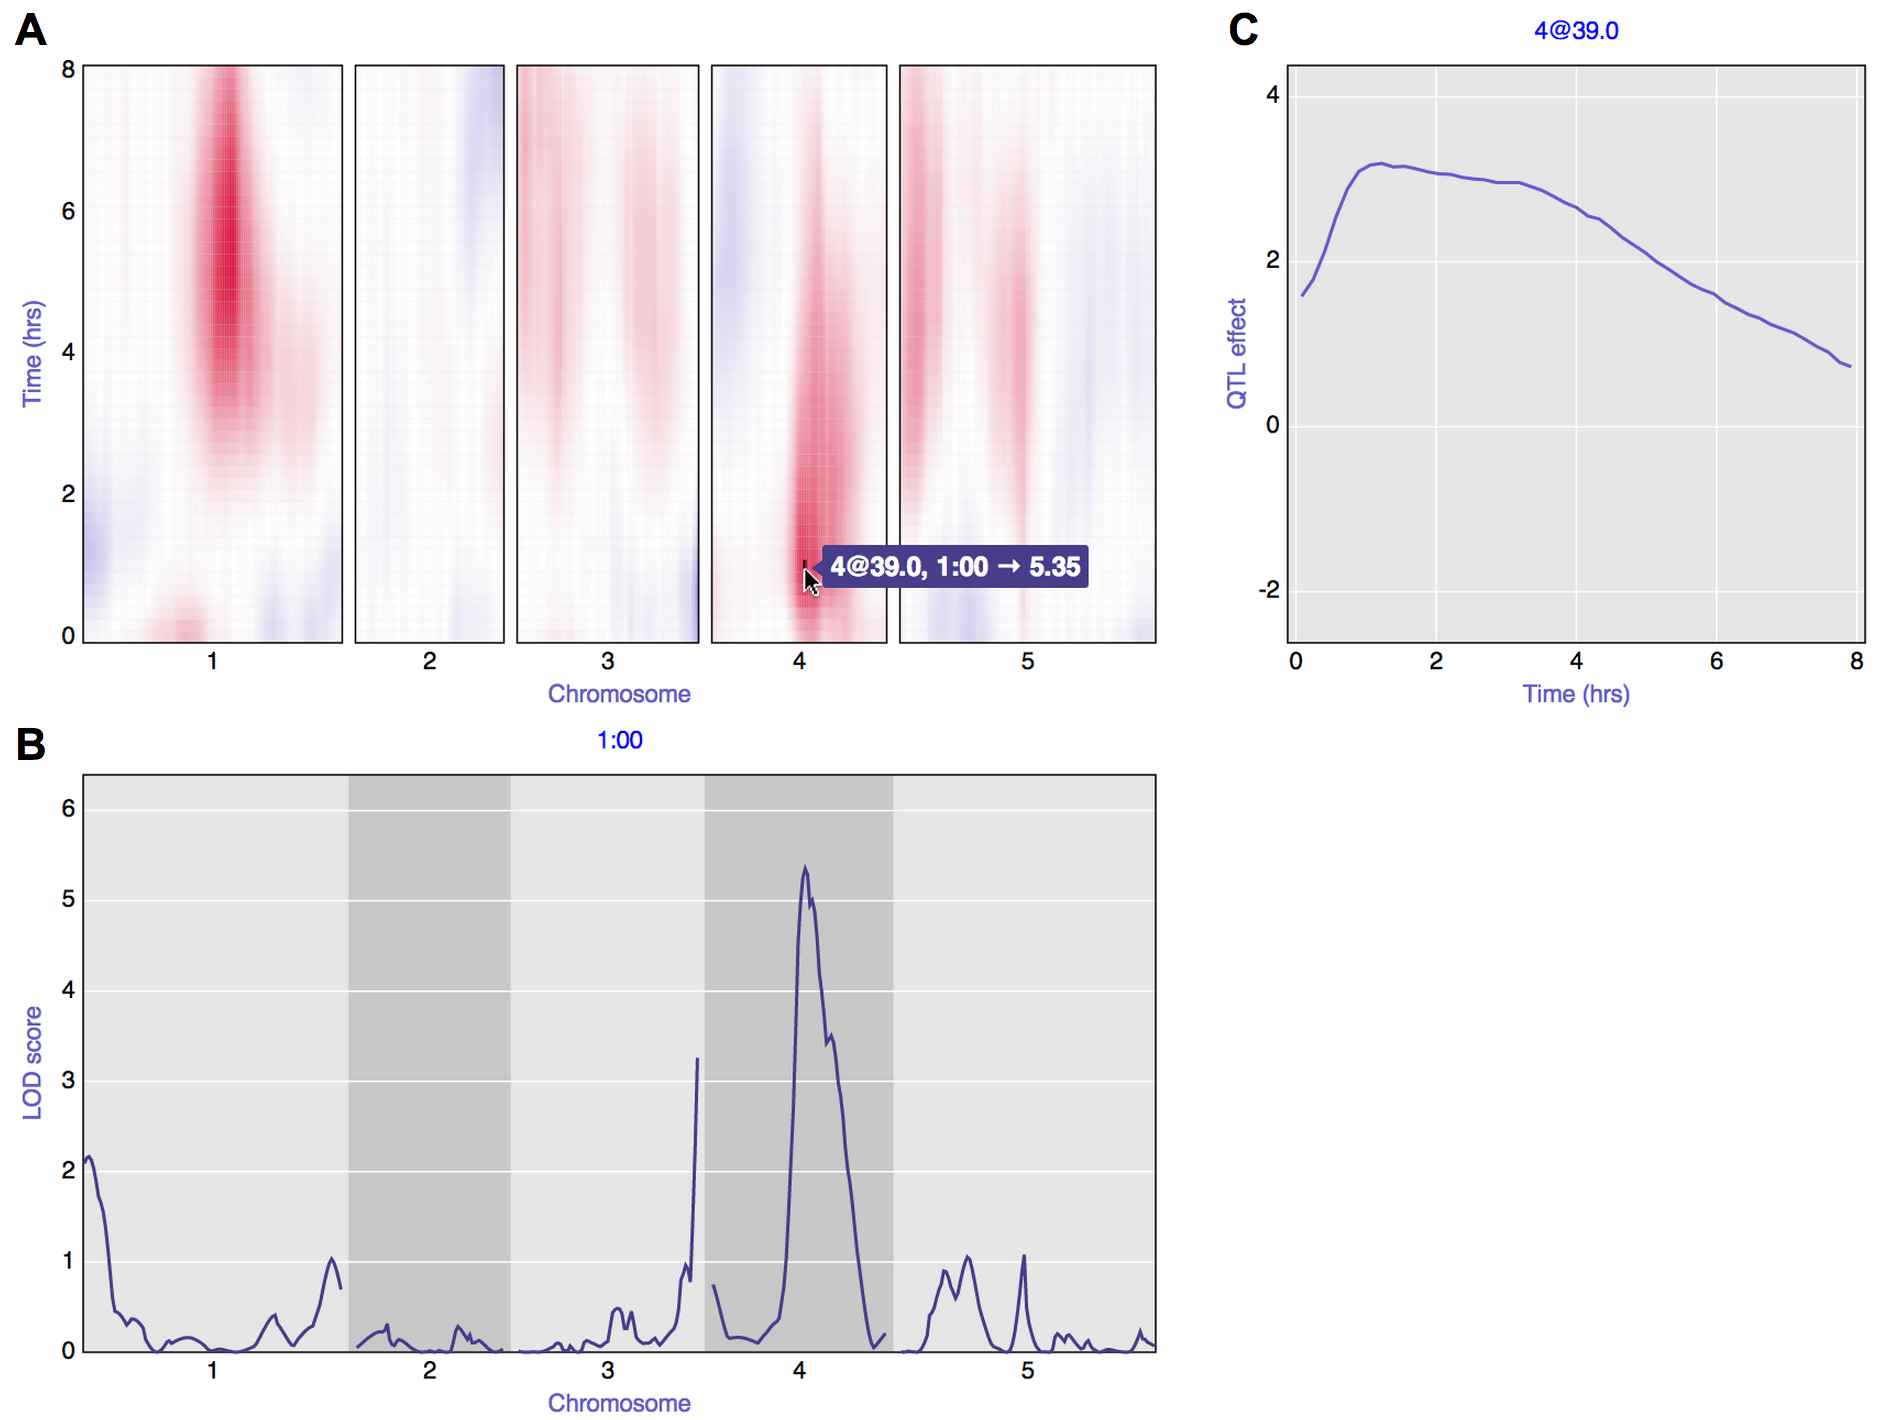
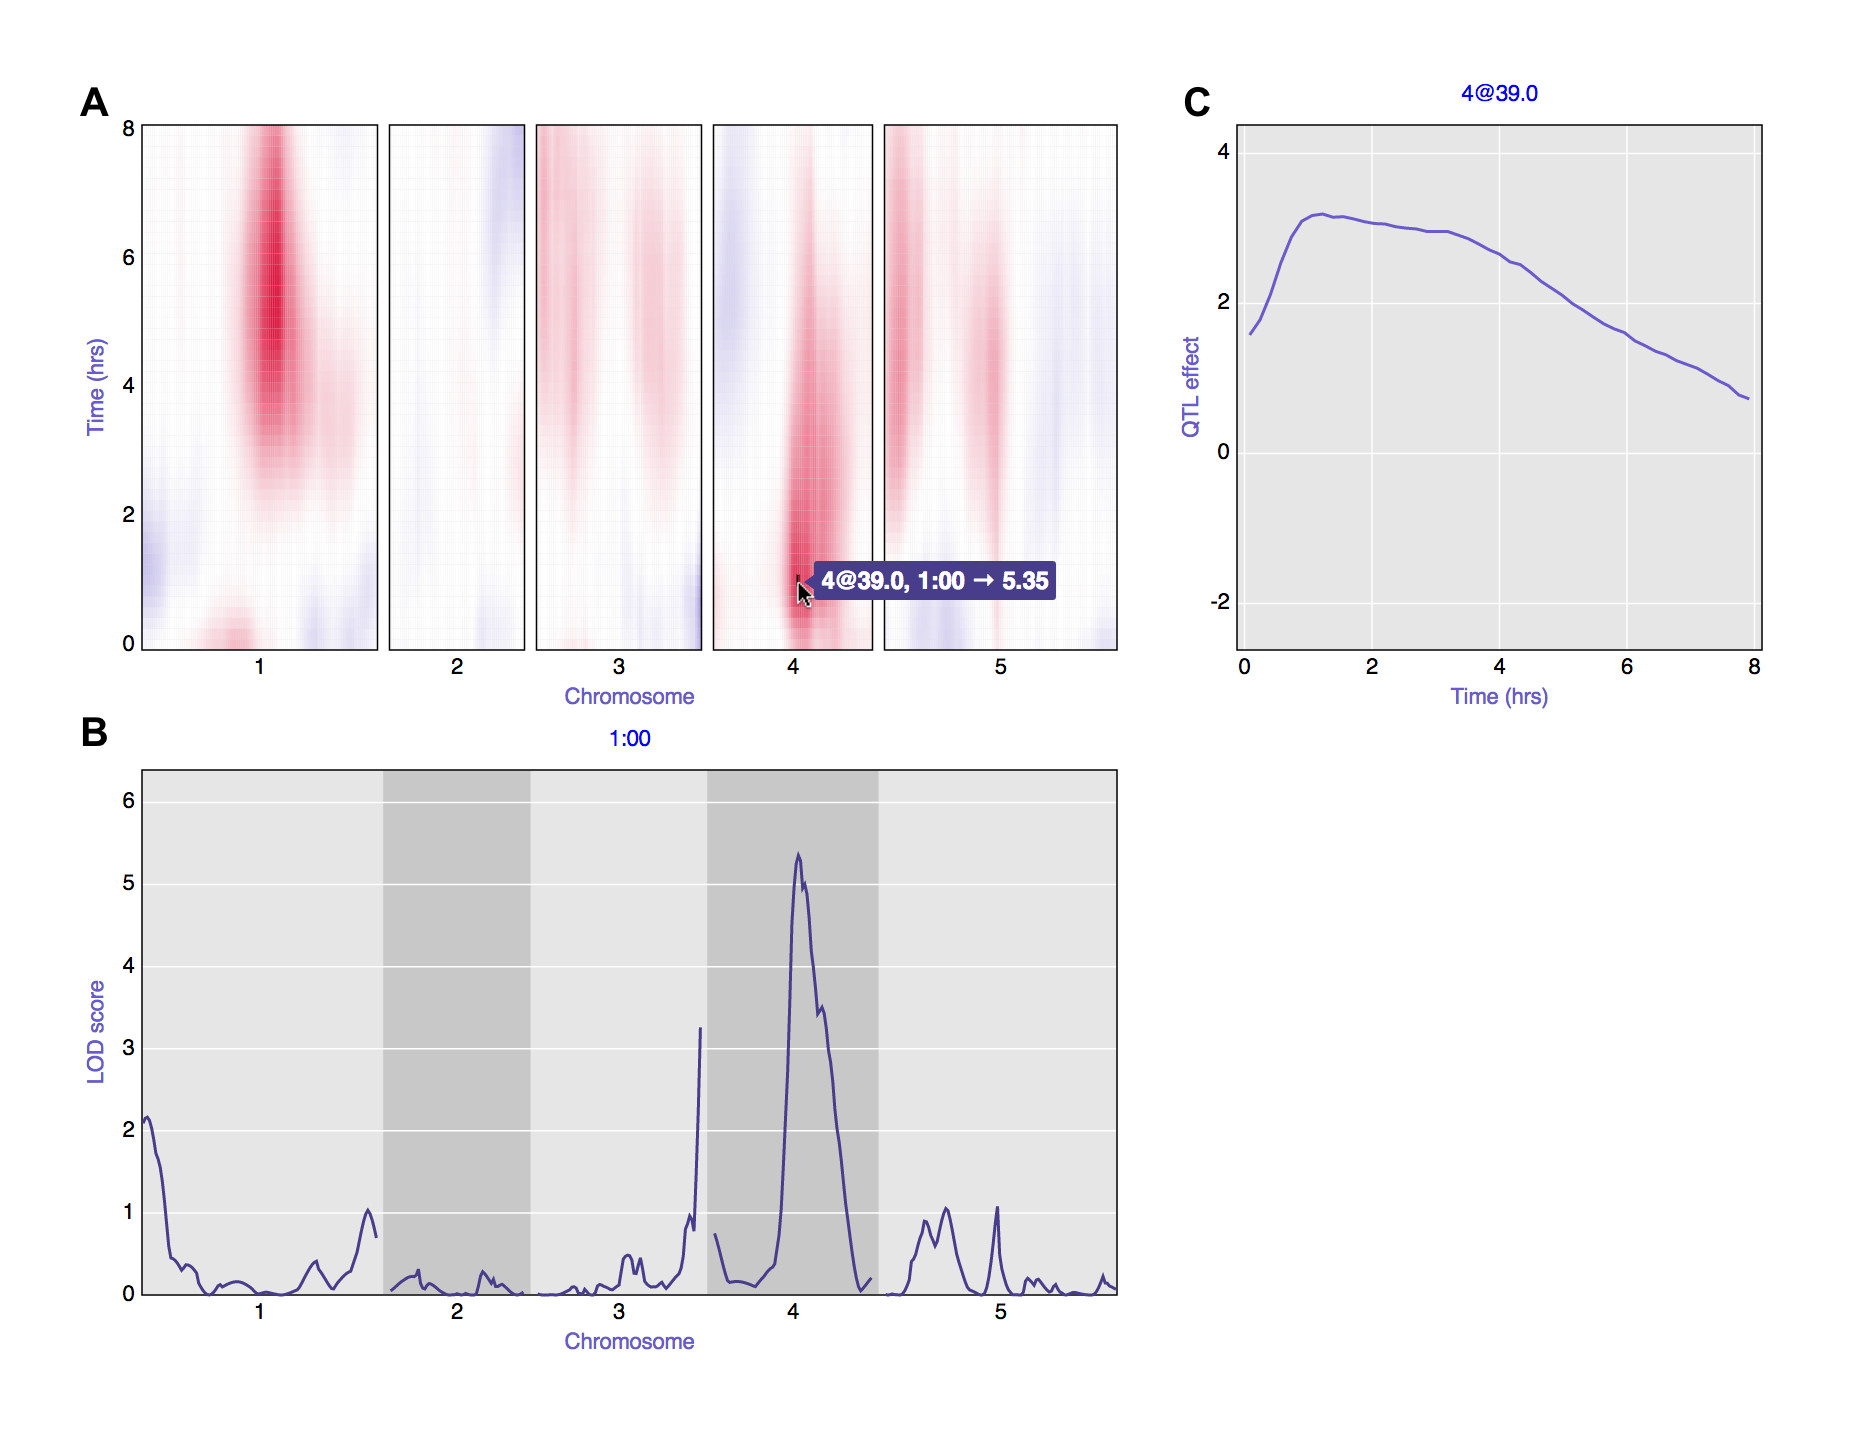
Use R pkg webshot to automate grabbing fig1.png (with overlayed pointer)

diff --git a/SubFigs/fig1.html b/SubFigs/fig1.html
@@ -11,45 +11,46 @@ body {
 
 p.A {
     position: fixed;
-    top: -10px;
-    left: 40px;
+    top: 40px;
+    left: 80px;
     font-size: 40px;
 }
 
 p.B {
     position: fixed;
-    top: 640px;
-    left: 40px;
+    top: 670px;
+    left: 80px;
     font-size: 40px;
 }
 
 p.C {
     position: fixed;
-    top: -10px;
-    left: 1143px;
+    top: 40px;
+    left: 1183px;
     font-size: 40px;
 }
 
 img.A {
     position: fixed;
-    top: 40px;
-    left: 40px;
+    top: 80px;
+    left: 80px;
 }
 
 img.pointer {
     position: fixed;
-    top:  539px;
-    left: 754px;
+    top:  579px;
+    left: 794px;
 }
 </style>
 
 <body>
 
+<div id="fig1">
 <img class="A" src="fig1_raw.png"/>
 <img height=50 class="pointer" src="pointer.png"/>
-
 <p class="A"><b>A</b></p>
 <p class="B"><b>B</b></p>
 <p class="C"><b>C</b></p>
+</div>
 
 </body> </html>
